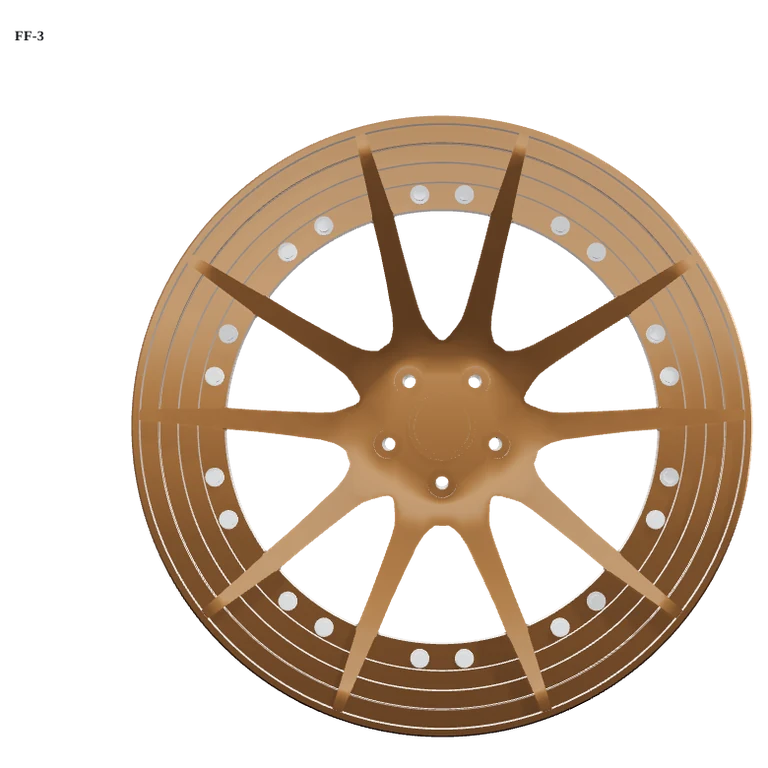
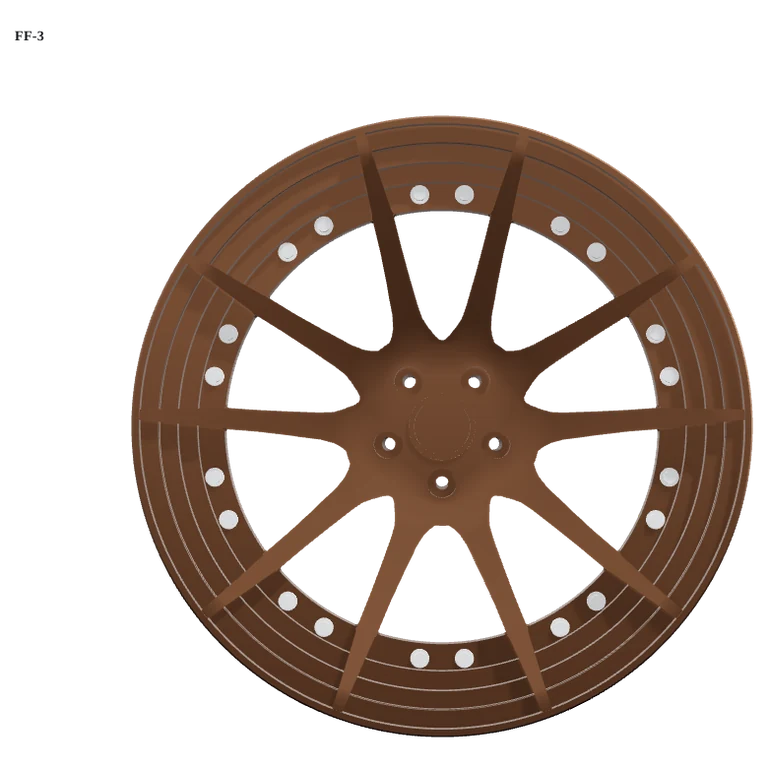
feat(finishes): Gloss Black name and satin Pure Bronze (owner's call)
Why: the owner and the stock sheet call the finish "Gloss Black" (the catalogue said "Black
Gloss"), and Pure Bronze rendered as a bright gloss copper next to SIXNINE's FF-Three photo,
which is a darker satin chocolate bronze.

What: migration 20261112120000 (applied to the live project at the owner's request, read back
after): black.name = Gloss Black; pure_bronze = #6e4a30, metal 0.85, rough 0.45, clear 0.3,
"Satin Bronze" (the satin-metallic recipe in services/wheelFinish.ts); FF-3's description and
highlights say Gloss Black. Bundled fallback, inventory, handover, README, pipeline doc and
the finishes skill match. FF-3 thumbnails re-rendered.

Checked: bun run lint; live rows read back; FF-3 Pure Bronze rendered as a thumbnail and on
the M2 CS front wheel (stage look), compared with the reference photo.

Claude-Session: https://claude.ai/code/session_015obiwZjJznB3S845JeyJNd

diff --git a/data/configuratorData.ts b/data/configuratorData.ts
@@ -280,7 +280,7 @@ export const WHEEL_FINISHES: Record<FinishVariantKey, WheelFinish> = {
   },
   black: {
     id: 'black',
-    name: 'Black Gloss',
+    name: 'Gloss Black',
     colorName: 'Gloss Black',
     hex: '#141618',
     metalness: 0.7,
@@ -361,12 +361,12 @@ export const WHEEL_FINISHES: Record<FinishVariantKey, WheelFinish> = {
   pure_bronze: {
     id: 'pure_bronze',
     name: 'Pure Bronze',
-    colorName: 'Gloss Bronze',
-    hex: '#9c6b3a',
-    metalness: 0.9,
-    roughness: 0.3,
-    clearcoat: 0.85,
-    description: 'Deep gloss bronze metallic, the FF-3 signature finish.',
+    colorName: 'Satin Bronze',
+    hex: '#6e4a30',
+    metalness: 0.85,
+    roughness: 0.45,
+    clearcoat: 0.3,
+    description: 'Deep satin bronze metallic with a soft sheen, the FF-3 signature finish.',
     badge: 'In stock'
   },
   black_matte: {
@@ -522,8 +522,8 @@ export const WHEEL_DESIGNS: WheelDesign[] = [
     pricePerSet: 4395.60,
     priceBySize: { '20"': 4395.60, '21"': 4395.60 },
     priceByFinish: { liquid_metal: 5219.78 },
-    description: 'Twin five-spoke three-piece forged wheel in Pure Bronze, Glossy Black or Liquid Metal. In stock for the M3 Competition Sedan (G80): PCD 5×112 · ET15/17 · CB 66.6.',
-    highlights: ['Three-piece construction', 'Pure Bronze, Glossy Black or Liquid Metal', 'PCD 5×112 · ET15/17 · CB 66.6'],
+    description: 'Twin five-spoke three-piece forged wheel in Pure Bronze, Gloss Black or Liquid Metal. In stock for the M3 Competition Sedan (G80): PCD 5×112 · ET15/17 · CB 66.6.',
+    highlights: ['Three-piece construction', 'Pure Bronze, Gloss Black or Liquid Metal', 'PCD 5×112 · ET15/17 · CB 66.6'],
     availableVariants: ['pure_bronze', 'black', 'liquid_metal'],
     defaultVariant: 'pure_bronze',
     imageUrl: '/rim-images/sixnine_ff3.webp',

diff --git a/.claude/skills/forgedsa-rim-finishes/SKILL.md b/.claude/skills/forgedsa-rim-finishes/SKILL.md
@@ -26,7 +26,7 @@ recipe for each kind. `bronze` (Bronze Matte) is offered on hidden wheels only.
 | Finish (id) | Admin values | Kind (rule) | What the engine renders |
 |---|---|---|---|
 | Liquid Metal (`liquid_metal`) | #dfe4e8, metal 0.98, rough 0.12, clear 1.0 | **polished** (metal ≥ 0.95, rough ≤ 0.16) | bare polished metal: metal 1, roughness 0.05–0.1, mirror clear coat (0.02) |
-| Black Gloss (`black`) | #141618, metal 0.7, rough 0.15, clear 0.95 | **gloss paint** (linear luminance < 0.03 or metal < 0.3; rough ≤ 0.35) | black **paint** (metal 0, base roughness 0.4) under a gloss clear coat (≥ 0.9, roughness 0.03) |
+| Gloss Black (`black`) | #141618, metal 0.7, rough 0.15, clear 0.95 | **gloss paint** (linear luminance < 0.03 or metal < 0.3; rough ≤ 0.35) | black **paint** (metal 0, base roughness 0.4) under a gloss clear coat (≥ 0.9, roughness 0.03) |
 | Bronze Matte (`bronze`) | #8f6738, metal 0.8, rough 0.55, clear 0.1 | **satin metallic** (rough ≥ 0.42; metal < 0.3 = matte solid paint) | metallic paint (metal ≥ 0.75, rough 0.42–0.7) under a satin clear coat (roughness 0.5); strong flop 0.5, flake 0.09 |
 | Silver (`silver`) | #c3c8cd, metal 0.9, rough 0.28, clear 0.7 | **metallic paint** (everything else) | metallic paint (rough ≥ 0.3) under a gloss clear coat (0.04); flop 0.7, flake 0.06 |
 
@@ -37,7 +37,7 @@ Why each recipe:
   liquid metal only because of what it reflects, so it needs the softbox studio
   (`services/studioSoftbox.ts`). Under a flat environment it goes dull grey. Roughness stays
   ≥ 0.05, because below that the thin spoke edges sparkle (alias) between frames.
-- **Black Gloss.** Gloss black wheels are painted or powder-coated: a non-metal. The old reading
+- **Gloss Black.** Gloss black wheels are painted or powder-coated: a non-metal. The old reading
   (metal 0.7 with a near-black colour) reflected almost nothing from the base, so spokes were
   flat black cut-outs with a rim of highlight.
   - As paint, the base gives its own 4% reflection with a soft sheen (roughness 0.4).
@@ -142,12 +142,12 @@ an edit in Finishes changes the live site at once.
 2. **Look for, per finish:**
    - **Liquid Metal:** crisp reflections of the softbox panels on the spoke faces; no sparkle
      on the edges.
-   - **Black Gloss:** the spoke *shapes* visible through soft reflections; sharp highlights
+   - **Gloss Black:** the spoke *shapes* visible through soft reflections; sharp highlights
      along the edges; never a flat black silhouette.
    - **Bronze Matte:** no mirror highlight anywhere, even on the lip and at grazing angles;
      darker sides; brown-gold, not orange.
    - **Silver:** brighter faces, darker sides; not chrome-like.
-   - **Gold / Pure Bronze:** warm metallic paint with flop and sharp clear-coat reflections; gold
+   - **Gold:** warm metallic paint (Pure Bronze is satin metallic since 2026-11-12) with flop and sharp clear-coat reflections; gold
      reads gold, not yellow or brass-orange; bronze brown-gold, not orange.
    - **Hyper Black:** dark gloss metallic whose faces flash bright as they turn (flop); pockets
      near-black; never a flat black cut-out, never as light as Silver.
@@ -188,7 +188,7 @@ The owner's stock sheet names the finishes customers see; they map onto these ro
 | Gold | `gold` | metallic paint | #c9a24e, 0.9, 0.32, 0.85 |
 | Hyper Black | `hyper_black` | metallic paint (dark, bright flop) | #3a3e44, 0.9, 0.24, 0.9 |
 | Polished Face | `polished_face` | polished | #e6e9ec, 1.0, 0.08, 0.6 |
-| Pure Bronze | `pure_bronze` | metallic paint | #9c6b3a, 0.9, 0.3, 0.85 |
+| Pure Bronze | `pure_bronze` | satin metallic (SIXNINE chocolate bronze; gloss #9c6b3a until 2026-11-12) | #6e4a30, 0.85, 0.45, 0.3 |
 | Black Matte | `black_matte` | satin solid (no flake/flop) | #26282b, 0.0, 0.5, 0.0 |
 | Silver / Gloss Black / Liquid Metal | `silver` / `black` / `liquid_metal` | as above | unchanged |
 

diff --git a/docs/WHEEL_INVENTORY.md b/docs/WHEEL_INVENTORY.md
@@ -19,7 +19,7 @@ Source of truth: Supabase `public.wheels` and `public.wheel_finishes` (migration
 | FSA003 | `forged_fsa_03` (kept: older share codes point at it) | 20", 21" | Silver → `silver`; Hyper Black → `hyper_black` | R75 000 → 4120.88 | `forged_fsa_03.glb` (website `fsa003.glb`); thumbnail cut from the website photo | M3 Sedan (G80), PCD 5×112, ET8/15, CB 66.6 |
 | FSA004 | `forged_fsa004` | 20", 21" | Silver → `silver`; Hyper Black → `hyper_black`; Gloss Black → `black` | R70 000 → 3846.15 | `forged_fsa004.glb` (website `fsa004.glb`) | M3 Sedan / M3 Competition (G80), PCD 5×112, ET8/15, CB 66.6 |
 | FF-1 | `sixnine_ff1` | 20", 21" | Silver → `silver`; Liquid Metal → `liquid_metal` | R80 000 → 4395.60; Liquid Metal R95 000 → 5219.78 | `sixnine_ff1.glb` (website `ff-1.glb`) | M3 Sedan / M3 Competition (G80), PCD 5×112, ET15/20 (ET15/17 for Liquid Metal), CB 66.6 |
-| FF-3 | `sixnine_ff3` | 20", 21" | Pure Bronze → `pure_bronze`; Glossy Black → `black`; Liquid Metal → `liquid_metal` | R80 000 → 4395.60; Liquid Metal R95 000 → 5219.78 | `sixnine_ff3.glb` (website `ff-3.glb`) | M3 Competition Sedan (G80), PCD 5×112, ET15/17, CB 66.6 |
+| FF-3 | `sixnine_ff3` | 20", 21" | Pure Bronze → `pure_bronze`; Gloss Black → `black`; Liquid Metal → `liquid_metal` | R80 000 → 4395.60; Liquid Metal R95 000 → 5219.78 | `sixnine_ff3.glb` (website `ff-3.glb`) | M3 Competition Sedan (G80), PCD 5×112, ET15/17, CB 66.6 |
 
 Notes
 
@@ -58,8 +58,8 @@ Notes
 | Hyper Black | `hyper_black` | dark gloss metallic (bright flop, near-black pockets) | #3a3e44, 0.9, 0.24, 0.9 |
 | Polished Face | `polished_face` | bare polished aluminium | #e6e9ec, 1.0, 0.08, 0.6 |
 | Silver | `silver` (existing) | metallic silver paint | #c3c8cd, 0.9, 0.28, 0.7 |
-| Gloss Black / Glossy Black | `black` (existing, "Black Gloss") | gloss black paint | #141618, 0.7, 0.15, 0.95 |
-| Pure Bronze | `pure_bronze` | gloss metallic bronze | #9c6b3a, 0.9, 0.3, 0.85 |
+| Gloss Black | `black` (renamed from "Black Gloss" on 2026-11-12) | gloss black paint | #141618, 0.7, 0.15, 0.95 |
+| Pure Bronze | `pure_bronze` | satin metallic bronze (SIXNINE's chocolate bronze; was gloss #9c6b3a until 2026-11-12) | #6e4a30, 0.85, 0.45, 0.3 |
 | Liquid Metal | `liquid_metal` (existing) | polished chrome | #dfe4e8, 0.98, 0.12, 1.0 |
 | Black Matte | `black_matte` | satin solid black (no flake, no flop) | #26282b, 0.0, 0.5, 0.0 |
 

diff --git a/docs/WHEEL_PIPELINE.md b/docs/WHEEL_PIPELINE.md
@@ -16,7 +16,7 @@ The configurator builds each rim face in 3D from a single PNG (`services/wheelKi
 - **The barrel behind the outer spokes** may stay in the photo. The app traces the arms across it to
   the lip. Cutting it out between the arms gives the cleanest result.
 - **Only the cut-out's shape is used for the 3D face.** Its colour comes from the finish the customer
-  picks (Liquid Metal, Bronze Matte, Black Gloss, Silver; see the `forgedsa-rim-finishes` skill).
+  picks (Liquid Metal, Bronze Matte, Gloss Black, Silver; see the `forgedsa-rim-finishes` skill).
   - The ingest still maps every photo to **neutral light grey**, because the flat fallback (no
     transparency, or 3D spokes switched off) shows the photo itself, multiplied by the finish.
   - A gold photo would tint every finish gold there.
@@ -45,7 +45,7 @@ there.
 | `code` | `FSA-02` | Optional; the wheel's id is built from it (`forged_fsa_02`), so keep it stable. |
 | `sizes` | `19\|20\|21\|22` | Separate values with `\|`. |
 | `prices_zar` or `prices_usd` | `68000\|74000\|82000\|92000` | Price for a set of four, one per size. Rand is converted at the `config/brand.ts` rate. |
-| `finishes` | `Liquid Metal\|Bronze Matte\|Black Gloss\|Silver` | Names or ids from the Finishes tab. |
+| `finishes` | `Liquid Metal\|Bronze Matte\|Gloss Black\|Silver` | Names or ids from the Finishes tab. |
 | `subtitle`, `description`, `highlights` | | Optional copy; highlights separated by `\|`. The AI writes them if blank. |
 | `style` | `Monoblock Forged` | Optional line under the name on the collection page. The AI suggests one if blank. |
 | `skip` | `yes` | Optional. `yes` leaves the row alone on the next run (used for the wheels already live). |

diff --git a/README.md b/README.md
@@ -175,7 +175,7 @@ in the FORGED Drive folder; edit it like any spreadsheet.
 | `code` | `FSA-02` | optional; becomes the wheel id (`forged_fsa_02`), keep it stable |
 | `sizes` | `19\|20\|21\|22` | separate values with `\|` |
 | `prices_zar` or `prices_usd` | `68000\|74000\|82000\|92000` | set of four, one per size |
-| `finishes` | `Liquid Metal\|Silver` | any finish in the `wheel_finishes` table: Liquid Metal, Bronze Matte, Black Gloss, Silver, Gold, Hyper Black, Polished Face, Pure Bronze, Black Matte (and Satin Gold, Gunmetal Matte) |
+| `finishes` | `Liquid Metal\|Silver` | any finish in the `wheel_finishes` table: Liquid Metal, Bronze Matte, Gloss Black, Silver, Gold, Hyper Black, Polished Face, Pure Bronze, Black Matte (and Satin Gold, Gunmetal Matte) |
 | optional | `subtitle`, `description`, `highlights` (split on `\|`), `style`, `skip` (`yes` = leave alone), `notes` | AI writes the copy if blank |
 
 Each photo is cut out (rim only, transparent gaps), then posted to the Supabase function

diff --git a/docs/CLIENT_HANDOVER.md b/docs/CLIENT_HANDOVER.md
@@ -257,7 +257,7 @@ the sheet (they are the same for both sizes, as the sheet gives one price per de
 | **FSA003** | 20", 21" | Silver, Hyper Black | R75 000 |
 | **FSA004** | 20", 21" | Silver, Hyper Black, Gloss Black | R70 000 |
 | **FF-1** | 20", 21" | Silver, Liquid Metal | R80 000; Liquid Metal R95 000 |
-| **FF-3** | 20", 21" | Pure Bronze, Glossy Black, Liquid Metal | R80 000; Liquid Metal R95 000 |
+| **FF-3** | 20", 21" | Pure Bronze, Gloss Black, Liquid Metal | R80 000; Liquid Metal R95 000 |
 
 The sheet's fitment notes (the car each set was listed for, PCD, offset, centre bore) are in each wheel's
 description. The configurator still lets a customer put any of the six on any of the four cars: the sheet
